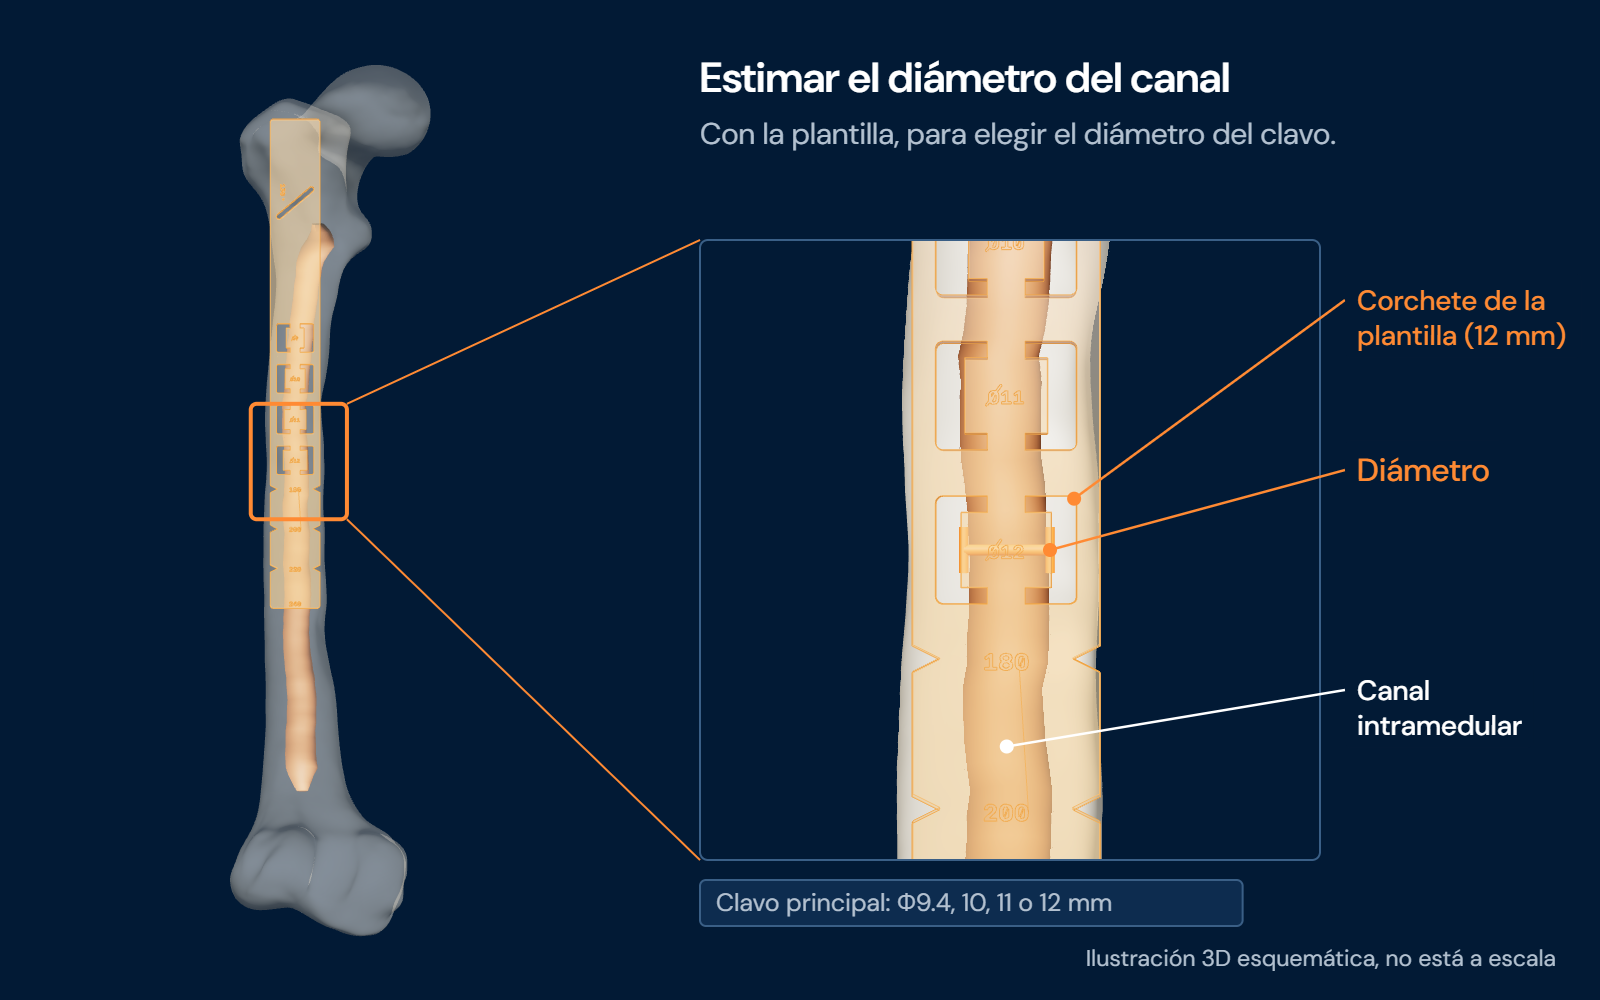
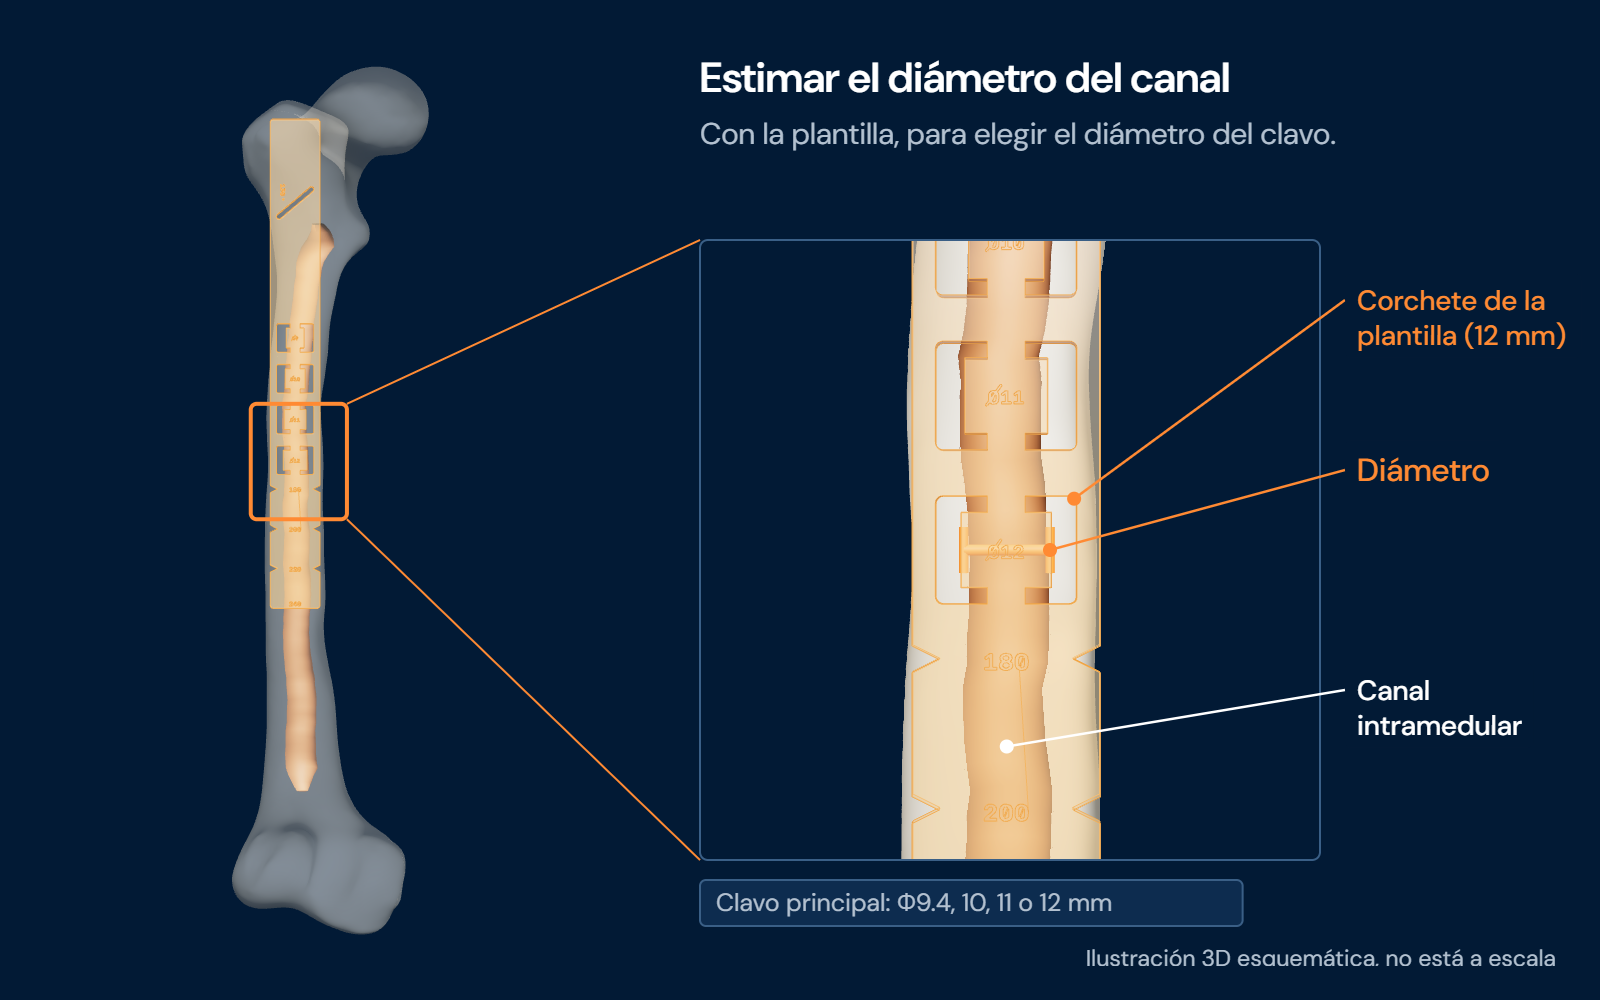
Fémur con superficie continua en todas las animaciones e imágenes 3D
femur_limpio.py suelda las dos mitades del hueso, quita bultos y hundimientos
de la diáfisis con un suavizado de Taubin y un tope gradual de movimiento,
y recalcula las normales. Los bordes abiertos no se mueven.

Changed region(s): [[0.5625, 0.372, 0.5938, 0.527], [0.5625, 0.589, 0.5938, 0.682]]

diff --git a/web/ilustraciones3d/escenas.js b/web/ilustraciones3d/escenas.js
@@ -711,6 +711,35 @@ const ESCENAS = {
     label(830, 850, 'Acortamiento', { size: 32 });
     note();
   },
+  // Revisión: el fémur tal como viene en el archivo (con sus normales originales), desde las cuatro caras.
+  async 'ver-femur'() {
+    const content = await (await fetch('/api/content')).json();
+    const params = new URLSearchParams(location.search);
+    const asset = Object.values(content.assets).find((item) => item.filename.startsWith(params.get('archivo') || 'apertura'));
+    const gltf = await new GLTFLoader().parseAsync(await (await fetch(params.get('url') || asset.url)).arrayBuffer(), '');
+    gltf.scene.updateMatrixWorld(true);
+    const bone = new THREE.Group();
+    gltf.scene.traverse((node) => {
+      if (node.isMesh && /^Femur/.test(node.name)) {
+        const mesh = new THREE.Mesh(node.geometry.clone().applyMatrix4(node.matrixWorld), M.bone);
+        bone.add(mesh);
+      }
+    });
+    const box3 = new THREE.Box3().setFromObject(bone);
+    const c = box3.getCenter(new THREE.Vector3());
+    const views = [['Anterior', [0, 0, 1]], ['Posterior', [0, 0, -1]], ['Interna', [1, 0, 0]], ['Externa', [-1, 0, 0]]];
+    views.forEach(([name, dir], i) => {
+      const scene = new THREE.Scene();
+      floorAndLights(scene, { key: [dir[0] + 0.3, 1.5, dir[2] + 0.3], span: 1, floorY: -2 });
+      scene.add(bone.clone());
+      const cam = new THREE.PerspectiveCamera(22, 400 / 1000, 0.01, 10);
+      cam.position.set(c.x + dir[0] * 1.3, c.y, c.z + dir[2] * 1.3);
+      cam.lookAt(c);
+      cam.updateMatrixWorld();
+      render(scene, cam, { x: i * 400, y: 0, w: 400, h: 1000 });
+      label(i * 400 + 20, 40, name, { size: 26, weight: 600 });
+    });
+  },
   async '3-1-angulo-cuello-diafisis'() {
     await loadFemur();
     const scene = new THREE.Scene();

diff --git a/ilustraciones/femur_limpio.py b/ilustraciones/femur_limpio.py
@@ -1,0 +1,162 @@
+"""Limpia la superficie del fémur dentro de un GLB, sin cambiar nada más del archivo.
+
+    python ilustraciones/femur_limpio.py entrada.glb salida.glb
+
+Qué corrige (defectos del modelo, no de la anatomía):
+  * bultos y hundimientos a lo largo de la diáfisis, que hacen ver los laterales "dentados";
+  * la línea donde se unen las dos mitades en que viene partido el hueso;
+  * el sombreado duro en costuras de la malla.
+
+Cómo: se sueldan las mitades, se aplica un suavizado de Taubin (alisa sin encoger el hueso) y se
+limita cuánto puede moverse cada punto (MAX_SHIFT). Así se van las irregularidades, pero la cabeza,
+el cuello, los trocánteres, la línea áspera y los cóndilos conservan su forma y su tamaño.
+Los bordes abiertos (p. ej. el orificio del abridor) no se mueven: el instrumental sigue alineado.
+Solo cambian las posiciones y las normales del fémur; animaciones, piezas y escenas quedan iguales.
+"""
+import json
+import re
+import struct
+import sys
+
+import numpy as np
+
+import os
+# Primero un alisado directo (quita bultos y hundimientos de unos milímetros a pocos centímetros) y
+# luego pasadas de Taubin que devuelven el volumen. El tope MAX_SHIFT evita que cambie la forma general.
+SMOOTH = int(os.environ.get("FEMUR_SMOOTH", 110))
+PASSES = int(os.environ.get("FEMUR_PASSES", 60))
+LAMBDA = 0.5
+MU = -0.53
+MAX_SHIFT = float(os.environ.get("FEMUR_MAX_MM", 1.4)) / 1000  # metros: tope de movimiento de cada punto
+FEMUR = re.compile(r"femur", re.I)
+NOT_BONE = re.compile(r"canal|abertura|cortical|anillo|flecha|eje|indicador|linea|bordes", re.I)
+
+COMPONENTS = {"SCALAR": 1, "VEC2": 2, "VEC3": 3, "VEC4": 4}
+DTYPES = {5126: np.float32, 5125: np.uint32, 5123: np.uint16, 5121: np.uint8}
+
+
+def read_glb(path):
+    data = bytearray(open(path, "rb").read())
+    json_len = struct.unpack_from("<I", data, 12)[0]
+    doc = json.loads(data[20:20 + json_len])
+    bin_start = 20 + json_len + 8
+    return data, doc, bin_start
+
+
+def accessor_view(data, doc, bin_start, index):
+    """Devuelve (arreglo, posición en el archivo de cada elemento, tipo) de un accessor."""
+    acc = doc["accessors"][index]
+    view = doc["bufferViews"][acc["bufferView"]]
+    n = COMPONENTS[acc["type"]]
+    dtype = np.dtype(DTYPES[acc["componentType"]]).newbyteorder("<")
+    stride = view.get("byteStride") or n * dtype.itemsize
+    base = bin_start + view.get("byteOffset", 0) + acc.get("byteOffset", 0)
+    offsets = base + np.arange(acc["count"], dtype=np.int64) * stride
+    raw = np.frombuffer(data, dtype=np.uint8)
+    idx = offsets[:, None] + np.arange(n * dtype.itemsize)[None, :]
+    out = raw[idx].copy().view(dtype).reshape(acc["count"], n)
+    return out, offsets, dtype
+
+
+def write_floats(data, offsets, values):
+    raw = np.frombuffer(data, dtype=np.uint8)  # misma memoria que data (bytearray)
+    payload = np.ascontiguousarray(values.astype("<f4")).view(np.uint8).reshape(len(offsets), -1)
+    idx = offsets[:, None] + np.arange(payload.shape[1])[None, :]
+    raw[idx] = payload
+
+
+def refine(points, triangles):
+    n = len(points)
+    P = points.astype(np.float64)
+    edges = np.concatenate([triangles[:, [0, 1]], triangles[:, [1, 2]], triangles[:, [2, 0]]])
+    a, b = np.minimum(edges[:, 0], edges[:, 1]), np.maximum(edges[:, 0], edges[:, 1])
+    key = a.astype(np.int64) * n + b
+    uniq, counts = np.unique(key, return_counts=True)
+    ea, eb = uniq // n, uniq % n
+    fixed = np.zeros(n, bool)
+    fixed[ea[counts == 1]] = True
+    fixed[eb[counts == 1]] = True
+    src = np.concatenate([ea, eb])
+    dst = np.concatenate([eb, ea])
+    deg = np.bincount(src, minlength=n).astype(np.float64)
+    deg[deg == 0] = 1
+    move = (~fixed)[:, None]
+    original = P.copy()
+    steps = [LAMBDA] * SMOOTH + [LAMBDA, MU] * PASSES
+    for factor in steps:
+        if True:
+            avg = np.stack([np.bincount(src, weights=P[dst, k], minlength=n) for k in range(3)], axis=1) / deg[:, None]
+            P = np.where(move, P + factor * (avg - P), P)
+    shift = P - original
+    length = np.linalg.norm(shift, axis=1)
+    # Tope gradual: los movimientos grandes se frenan suavemente (sin cortes bruscos entre vecinos).
+    soft = MAX_SHIFT * np.tanh(length / MAX_SHIFT)
+    shift *= (soft / np.maximum(length, 1e-12))[:, None]
+    P = original + shift
+    # Pasadas finales de Taubin para dejar la transición del tope sin marcas.
+    for factor in [LAMBDA, MU] * 30:
+        avg = np.stack([np.bincount(src, weights=P[dst, k], minlength=n) for k in range(3)], axis=1) / deg[:, None]
+        P = np.where(move, P + factor * (avg - P), P)
+    # Normales suaves sobre toda la superficie (sin línea entre mitades).
+    tri = P[triangles]
+    face = np.cross(tri[:, 1] - tri[:, 0], tri[:, 2] - tri[:, 0])
+    N = np.zeros_like(P)
+    for k in range(3):
+        np.add.at(N, triangles[:, k], face)
+    N /= np.maximum(np.linalg.norm(N, axis=1, keepdims=True), 1e-12)
+    return P, N, length
+
+
+def main(src_path, dst_path):
+    data, doc, bin_start = read_glb(src_path)
+    done = set()
+    for mesh_index, mesh in enumerate(doc["meshes"]):
+        names = [mesh.get("name", "")] + [nd.get("name", "") for nd in doc["nodes"] if nd.get("mesh") == mesh_index]
+        joined = " ".join(names)
+        if not FEMUR.search(joined) or NOT_BONE.search(joined):
+            continue
+        prims = [p for p in mesh["primitives"] if p["attributes"]["POSITION"] not in done]
+        if not prims:
+            continue
+        # Soldar todas las primitivas (las mitades) en una sola superficie.
+        ids, points, maps, tris = {}, [], [], []
+        for prim in prims:
+            pos, offs, _ = accessor_view(data, doc, bin_start, prim["attributes"]["POSITION"])
+            keys = np.round(pos.astype(np.float64) * 1e6).astype(np.int64)
+            local = np.empty(len(pos), np.int64)
+            for i, k in enumerate(map(tuple, keys)):
+                if k not in ids:
+                    ids[k] = len(points)
+                    points.append(pos[i])
+                local[i] = ids[k]
+            maps.append((prim, local, offs))
+            if "indices" in prim:
+                idx, _, _ = accessor_view(data, doc, bin_start, prim["indices"])
+                idx = idx.ravel().astype(np.int64)
+            else:
+                idx = np.arange(len(pos))
+            t = local[idx].reshape(-1, 3)
+            t = t[(t[:, 0] != t[:, 1]) & (t[:, 1] != t[:, 2]) & (t[:, 0] != t[:, 2])]
+            tris.append(t)
+        P, N, moved = refine(np.array(points), np.concatenate(tris))
+        for prim, local, offs in maps:
+            write_floats(data, offs, P[local])
+            acc = doc["accessors"][prim["attributes"]["POSITION"]]
+            acc["min"] = P[local].min(axis=0).astype(float).tolist()
+            acc["max"] = P[local].max(axis=0).astype(float).tolist()
+            if "NORMAL" in prim["attributes"]:
+                _, noffs, _ = accessor_view(data, doc, bin_start, prim["attributes"]["NORMAL"])
+                write_floats(data, noffs, N[local])
+            done.add(prim["attributes"]["POSITION"])
+        print(f"{joined[:40]:40s} puntos {len(points):6d}  movimiento medio {moved.mean() * 1000:.2f} mm, máximo {moved.max() * 1000:.2f} mm")
+    # Reescribir el JSON (mismo tamaño o con relleno) y guardar.
+    text = json.dumps(doc, separators=(",", ":")).encode()
+    text += b" " * ((4 - len(text) % 4) % 4)
+    old_len = struct.unpack_from("<I", data, 12)[0]
+    body = bytes(data[20 + old_len:])
+    out = struct.pack("<III", 0x46546C67, 2, 12 + 8 + len(text) + len(body)) + struct.pack("<II", len(text), 0x4E4F534A) + text + body
+    open(dst_path, "wb").write(out)
+
+
+if __name__ == "__main__":
+    main(sys.argv[1], sys.argv[2])

diff --git a/ilustraciones/generar3d.py b/ilustraciones/generar3d.py
@@ -11,6 +11,7 @@ from pathlib import Path
 
 OUT = Path(__file__).resolve().parent
 BASE = "http://127.0.0.1:8000/ilustraciones3d/index.html"
+EXTRA = os.environ.get("ESCENA_EXTRA", "")  # parámetros adicionales, p. ej. "&refinar=1"
 SCENES = [
     "etapa1-paciente-obeso", "1-1-posicion-supina", "1-2-intensificador", "2-1-aduccion", "2-2-fijar-miembro",
     "2-3-traccion", "3-1-angulo-cuello-diafisis", "3-2-largo-del-clavo", "3-3-diametro-del-canal",
@@ -28,7 +29,7 @@ def main():
                 str(edge), "--headless=new", "--no-first-run", f"--user-data-dir={tmp}/perfil",
                 "--use-angle=swiftshader", "--enable-unsafe-swiftshader", "--ignore-gpu-blocklist",
                 "--hide-scrollbars", "--virtual-time-budget=90000", "--window-size=1600,1000",
-                f"--screenshot={target}", f"{BASE}?escena={name}",
+                f"--screenshot={target}", f"{BASE}?escena={name}{EXTRA}",
             ], check=True, timeout=240, capture_output=True)
             print(name, target.stat().st_size)
 
